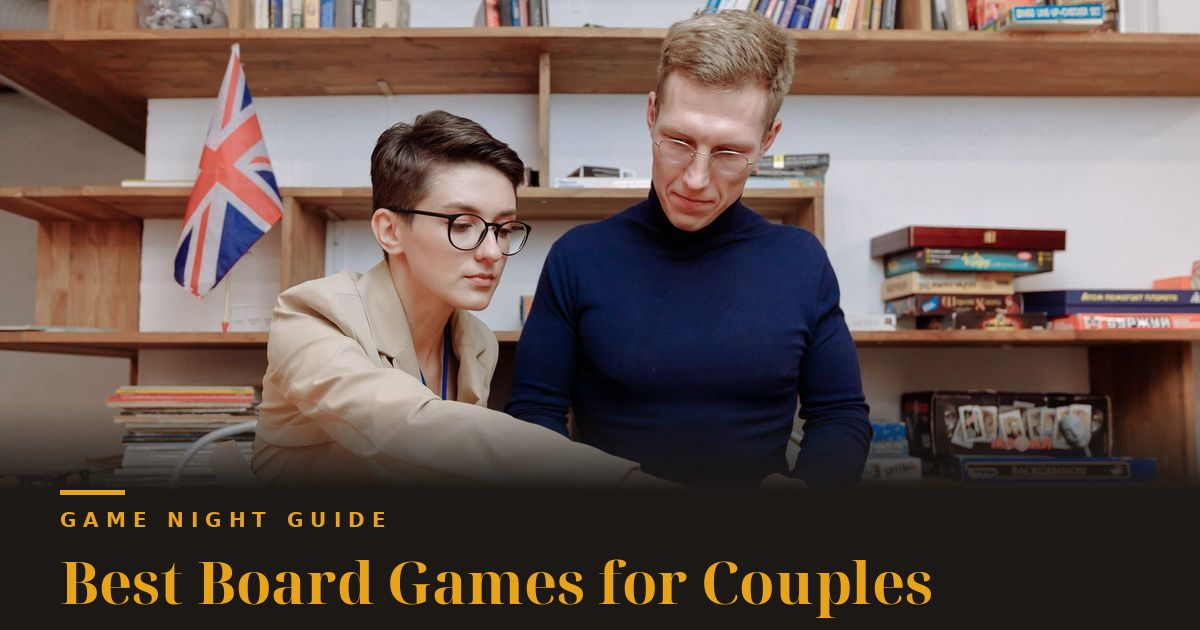
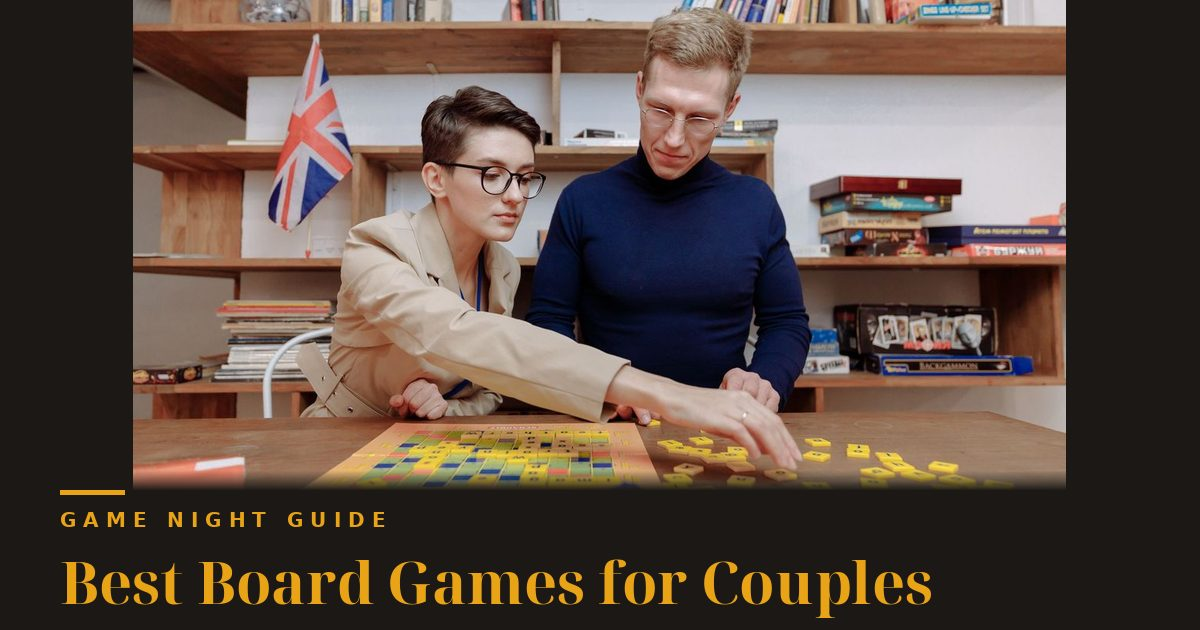
Fix couples hero and OG: fit whole Scrabble photo above title band so the board is visible

diff --git a/scripts/make_thumbnail_images.py b/scripts/make_thumbnail_images.py
@@ -38,9 +38,17 @@ SERIF_BOLD = "/usr/share/fonts/truetype/noto/NotoSerifDisplay-Bold.ttf"
 SANS_BOLD = "/usr/share/fonts/truetype/dejavu/DejaVuSans-Bold.ttf"
 
 # slug: (source photo file in PHOTOS, title for the band, focus x, focus y)
+# An optional 5th element, an opts dict, tunes one guide without
+# touching the others. "fit" fits the whole photo into the area above
+# the band instead of cover-cropping it: the couples photo needs it,
+# because the faces and the Scrabble board span almost the full height
+# of the source, so a bottom-biased cover crop either cuts the top of
+# a head or hides the board under the band. "fade" shortens the dark
+# gradient above the band so the board stays bright.
 GUIDES = {
     "beginners": ("beginners.jpg", "Best Board Games for Beginners", 0.5, 0.5),
-    "couples": ("couples.jpg", "Best Board Games for Couples", 0.5, 0.35),
+    "couples": ("couples.jpg", "Best Board Games for Couples", 0.5, 0.35,
+                {"fit": True, "fade": 20}),
     "2-players-under-40": ("2-players-under-40.jpg",
                             "Best Board Games for 2 Players Under $40", 0.5, 0.5),
     "under-30": ("under-30.jpg", "Best Board Games Under $30", 0.5, 0.5),
@@ -90,18 +98,18 @@ def measure_band(draw, title, max_w, margin=60):
     return lines, font, band_h
 
 
-def add_band(canvas, title, lines, font, band_h, margin=60):
+def add_band(canvas, title, lines, font, band_h, margin=60, fade=90):
     """Dark band across the bottom with a gold serif title.
 
     A soft gradient above the band lets the photo fade into it,
-    like the owner's example.
+    like the owner's example. A short fade keeps the bottom of the
+    photo bright, which the couples board needs.
     """
     w, h = canvas.size
     band_top = h - band_h
-    # gradient: transparent at band_top - 90, solid ink at band_top
+    # gradient: transparent at band_top - fade, solid ink at band_top
     overlay = Image.new("RGBA", (w, h), (0, 0, 0, 0))
     od = ImageDraw.Draw(overlay)
-    fade = 90
     for y in range(band_top - fade, band_top):
         a = int(255 * (y - (band_top - fade)) / fade)
         od.line([(0, y), (w, y)], fill=INK + (a,))
@@ -123,12 +131,36 @@ def add_band(canvas, title, lines, font, band_h, margin=60):
     return canvas
 
 
-def make_photo_title(slug, src_file, title, fx, fy):
+def banded(src, w, h, title, fx, fy, fit=False, fade=90):
+    """Photo plus title band at w x h.
+
+    Cover-crops the photo to fill the canvas, then draws the band over
+    the bottom. With fit=True the whole photo is scaled into the area
+    above the band instead, centred, with ink pillars at the sides:
+    nothing is cropped, so a photo whose subject spans the full height
+    keeps both its top and its bottom in frame.
+    """
+    lines, font, band_h = measure_band(
+        ImageDraw.Draw(Image.new("RGB", (w, h))), title, w - 120)
+    canvas = Image.new("RGB", (w, h), INK)
+    if fit:
+        vis_h = h - band_h
+        pw = round(src.size[0] * vis_h / src.size[1])
+        photo = src.resize((pw, vis_h), Image.LANCZOS)
+        canvas.paste(photo, ((w - pw) // 2, 0))
+    else:
+        canvas.paste(cover_crop(src, w, h, fx, fy), (0, 0))
+    add_band(canvas, title, lines, font, band_h, fade=fade)
+    return canvas
+
+
+def make_photo_title(slug, src_file, title, fx, fy, opts=None):
+    opts = opts or {}
     src = Image.open(os.path.join(SOURCE, src_file)).convert("RGB")
+    fit = opts.get("fit", False)
+    fade = opts.get("fade", 90)
     # hero, 1200x675, 16:9
-    hero = cover_crop(src, 1200, 675, fx, fy)
-    lines, font, band_h = measure_band(ImageDraw.Draw(hero), title, 1200 - 120)
-    add_band(hero, title, lines, font, band_h)
+    hero = banded(src, 1200, 675, title, fx, fy, fit, fade)
     p = os.path.join(PHOTOS, f"{slug}.jpg")
     hero.save(p, quality=80, optimize=True)
     # card thumb, 800x450, plain photo crop, no band
@@ -136,9 +168,7 @@ def make_photo_title(slug, src_file, title, fx, fy):
     t = os.path.join(PHOTOS, f"{slug}-thumb.jpg")
     thumb.save(t, quality=78, optimize=True)
     # OG, 1200x630
-    og = cover_crop(src, 1200, 630, fx, fy)
-    lines, font, band_h = measure_band(ImageDraw.Draw(og), title, 1200 - 120)
-    add_band(og, title, lines, font, band_h)
+    og = banded(src, 1200, 630, title, fx, fy, fit, fade)
     o = os.path.join(OUT, f"og-{slug}.jpg")
     og.save(o, quality=82, optimize=True)
     print(f"{slug}: hero {os.path.getsize(p)//1024}KB, "
@@ -186,8 +216,8 @@ def make_versus():
 
 
 def main():
-    for slug, (src_file, title, fx, fy) in GUIDES.items():
-        make_photo_title(slug, src_file, title, fx, fy)
+    for slug, entry in GUIDES.items():
+        make_photo_title(slug, *entry[:4], entry[4] if len(entry) > 4 else None)
     make_versus()
 
 
